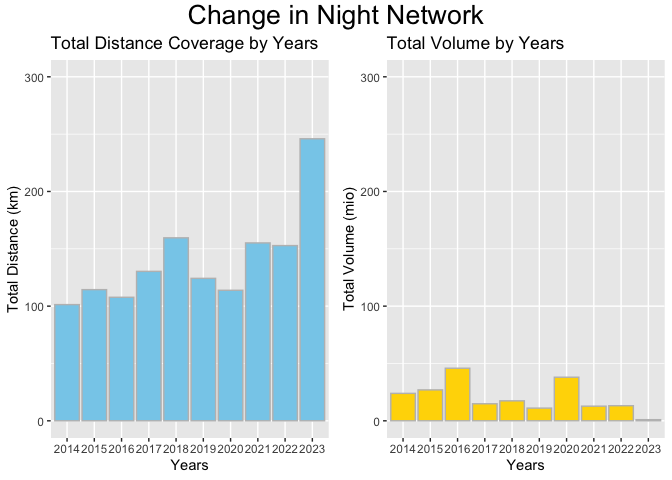
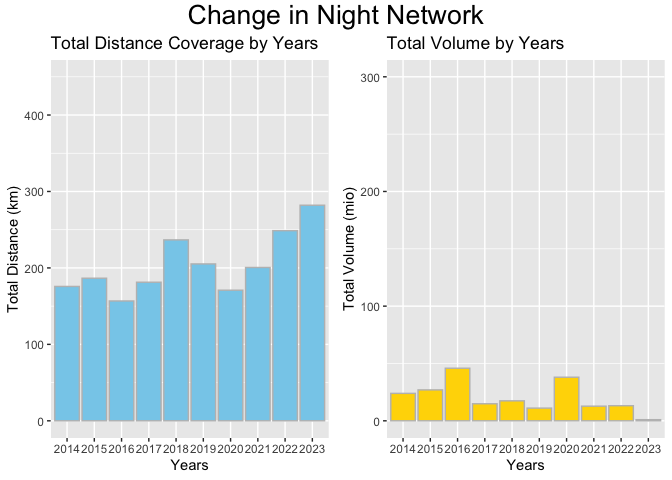
compiled barplot, update aesthetic

diff --git a/WZ/Q1Q2.md b/WZ/Q1Q2.md
@@ -165,6 +165,8 @@ sum(!duplicated(acti_punkte$halt_id))
 
 ``` r
 # to do: load data sets of the past years. Sum on $Distanz after filtering for unique haltestellen_ID 
+## This is wrong because omitted shared stops of overlapping routes and overlap of route map with Nachtnetz
+## Filter by unique$Distanz instead, but still doesn't solve the issue of overlap with Nachtnetz
 wd <- ("data")
 subfolders <- list.dirs(wd, full.names = TRUE)
 subfolders <- grep("fahrgastzahlen_20[0-9]{2}", subfolders, value = TRUE)
@@ -188,7 +190,7 @@ for (subfolder in subfolders) {
 # Filter for unique $Haltestellen_Id, then sum up $Distanz, then make barplot
 distanz <- function(dfs) {
   filter_and_summarize <- function(data) {
-    unique_data <- data[!duplicated(data$Haltestellen_Id), ]
+    unique_data <- data[!duplicated(data$Distanz), ]
     total_distance <- if ("Distanz" %in% colnames(unique_data)) {
       unique_data %>%
         summarise(total_distance = sum(Distanz, na.rm = TRUE)) %>%
@@ -300,7 +302,7 @@ nacht_dfs <- lapply(merline_dfs, nachtbus)
 ``` r
 distanz <- function(dfs) {
   filter_and_summarize <- function(data) {
-    unique_data <- data[!duplicated(data$Haltestellen_Id), ]
+    unique_data <- data[!duplicated(data$Distanz), ]
     total_distance <- if ("Distanz" %in% colnames(unique_data)) {
       unique_data %>%
         summarise(total_distance = sum(Distanz, na.rm = TRUE)) %>%
@@ -317,7 +319,7 @@ distanz <- function(dfs) {
   ggplot(summed_distances_df, aes(x = Years, y = Total_Distance)) +
     geom_bar(stat = "identity", fill = "skyblue", color = "grey") +
     labs(title = "Total Distance Coverage by Years", x = "Years", y = "Total Distance (km)") +
-         ylim(0, 300) #fix the ylab to be the same for comparison
+         ylim(0, 450) #fix the ylab to be the same for comparison
 }
 
 passvol <- function(dfs) {
@@ -399,6 +401,90 @@ grid.arrange(fig1, fig2, ncol=2, top = textGrob("Change in Night Network", gp = 
 ![](Q1Q2_files/figure-gfm/Q1+%20plots:%20Change%20in%20Night%20network-1.png)<!-- -->
 
 ``` r
+distanz0 <- function(dfs) {
+  filter_and_summarize <- function(data) {
+    unique_data <- data[!duplicated(data$Distanz), ]
+    total_distance <- if ("Distanz" %in% colnames(unique_data)) {
+      unique_data %>%
+        summarise(total_distance = sum(Distanz, na.rm = TRUE)) %>%
+        pull(total_distance)
+    } else {
+      NA
+    }
+    return(total_distance)
+  }
+  
+  summed_distances <- sapply(dfs, filter_and_summarize)
+  summed_distances_df <- data.frame(Years = years, Total_Distance = unlist(summed_distances)/10^3)
+}
+
+tram_dis <- distanz0(tram_dfs)
+trolley_dis <- distanz0(trolley_dfs)
+bus_dis <- distanz0(bus_dfs)
+seilbahn_dis <- distanz0(seilbahn_dfs)
+forchbahn_dis <- distanz0(forchbahn_dfs)
+nacht_dis <- distanz0(nacht_dfs)
+all_dis <- cbind(nacht_dis, forchbahn_dis$Total_Distance, seilbahn_dis$Total_Distance, 
+                  trolley_dis$Total_Distance, bus_dis$Total_Distance, tram_dis$Total_Distance)
+coln <- c("Years", "Nachtnetz", "Forchbahn", "Seilbahn", "Trolleybus", "Bus", "Tram")
+colnames(all_dis) <- coln
+melt_dis <- melt(all_dis, id = "Years")
+
+b1 <- ggplot(melt_dis, aes(x = Years, y = value, fill = variable)) + 
+  geom_bar(stat = "identity") +
+  scale_fill_viridis(option = "magma", discrete = T) +
+  ylab("Distance Coverage (km)") +
+  guides(fill=guide_legend(title = "Vehicle Type", 
+                           theme = theme(legend.title = element_text(size = 10))
+                           ))
+b1
+```
+
+![](Q1Q2_files/figure-gfm/Q1+:%20Compiling%20into%20stacked%20barplot_Distance-1.png)<!-- -->
+
+``` r
+# Some difference with stats from: 
+# https://www.stadt-zuerich.ch/vbz/en/index/vbz/facts_figures/routes.html
+# Why? Changed a few params in Q1 but none was an exact match with the released data
+```
+
+``` r
+passvol0 <- function(dfs) {
+  multiply <- function(df) {
+    total_vol <- df %>%
+      mutate(product = Einsteiger * Tage_DTV) %>%
+      summarise(total_vol = sum(product, na.rm = TRUE)) %>%
+      pull(total_vol)
+    return(total_vol)
+  }
+  
+  total_volumn <- sapply(dfs, multiply)
+  total_volumn_df <- data.frame(Years = years, Total_Volume = unlist(total_volumn)/10^6)
+}
+tram_pass <- passvol0(tram_dfs)
+trolley_pass <- passvol0(trolley_dfs)
+bus_pass <- passvol0(bus_dfs)
+seilbahn_pass <- passvol0(seilbahn_dfs)
+forchbahn_pass <- passvol0(forchbahn_dfs)
+nacht_pass <- passvol0(nacht_dfs)
+all_pass <- cbind(nacht_pass, forchbahn_pass$Total_Volume, seilbahn_pass$Total_Volume, 
+                  trolley_pass$Total_Volume, bus_pass$Total_Volume, tram_pass$Total_Volume)
+colnames(all_pass) <- coln
+melt_pass <- melt(all_pass, id = "Years")
+
+b2 <- ggplot(melt_pass, aes(x = Years, y = value, fill = variable)) + 
+  geom_bar(stat = "identity") +
+  scale_fill_viridis(option = "magma", discrete = T) +
+    ylab("Passenger Volume (mio)") +
+  guides(fill=guide_legend(title = "Vehicle Type", 
+                           theme = theme(legend.title = element_text(size = 10))
+                           ))
+b2
+```
+
+![](Q1Q2_files/figure-gfm/Q1+:%20Compiling%20into%20stacked%20barplot_Volume-1.png)<!-- -->
+
+``` r
 # to do: by years, compute passenger/km of public transport coverage
 
 compute_pkm <- function(df) {
@@ -478,17 +564,18 @@ sb_df <- line_df[line_df$VSYS == "SB", ]
 fb_df <- line_df[line_df$VSYS == "FB", ]
 nacht_df <- line_df[line_df$VSYS == "N", ]
 
-timeslots <- sprintf("%d", 0:24)
+timeslots <- sprintf("%d", 0:23)
 datasets <- list(tram_df, bus_df, trolley_df, sb_df, fb_df, nacht_df)
 vol_per_hour <- data.frame(matrix(NA, ncol = length(timeslots), nrow = length(datasets)))
 colnames(vol_per_hour) <- timeslots
 
+# Compute passenger sum in a given hour of a given vehicle type
 pass_perhour <- function(datasets) {
   for (i in seq_along(datasets)) {
-    passnum <- numeric(length(timeslots))
+    passnum <- numeric(length(timeslots)) # Creates a vector of specified length with each element = 0, use as reset here
     for (hour in timeslots){
     pass <- sum(subset(datasets[[i]], FZ_AB == hour)$Besetzung, na.rm = TRUE)
-    passnum[as.numeric(hour) + 1] <- pass
+    passnum[as.numeric(hour) + 1] <- pass # Needed to correct for r indexing
     }
     vol_per_hour[i, ] <- passnum
   }
@@ -520,7 +607,8 @@ scale_255 <- function(x) {
   return(scaled)
 }
 
-scaled_rvph <- t(apply(res_vol_per_hour, 1, scale_255))
+# Change scaling to log10
+scaled_rvph <- t(apply(res_vol_per_hour+1, 1, log10))
 colnames(scaled_rvph) <- timeslots
 rownames(scaled_rvph) <- vehicle_types
 scaled_rvph_df <- melt(scaled_rvph, id = "vehicle_types")
@@ -530,7 +618,20 @@ scaled_rvph_df$value = as.numeric(scaled_rvph_df$value)
 p2 <- ggplot(scaled_rvph_df, aes(Var2, Var1, fill= value)) + 
   geom_tile() +
   xlab("Hours of day") +
-  scale_fill_viridis(option = "magma", discrete=FALSE)
+  ylab("Vehicle Types") +
+  scale_x_continuous(breaks = 0:23) +
+  guides(fill=guide_legend(title = "Passenger Volume\n(log scale)", 
+                           theme = theme(legend.title = element_text(size = 8))
+                           )) +
+  scale_fill_viridis(option = "magma", discrete=FALSE) +
+  theme(
+  panel.background = element_rect(fill='transparent'), #transparent panel bg
+  plot.background = element_rect(fill='transparent', color=NA), #transparent plot bg
+  panel.grid.major = element_blank(), #remove major gridlines
+  panel.grid.minor = element_blank(), #remove minor gridlines
+  legend.background = element_rect(fill='transparent'), #transparent legend bg
+  legend.box.background = element_rect(fill='transparent') #transparent legend panel
+  )
 
 # ggsave("results/heatmap_scaled.png", width = 10, height = 8, dpi = 600)
 print(p2)
